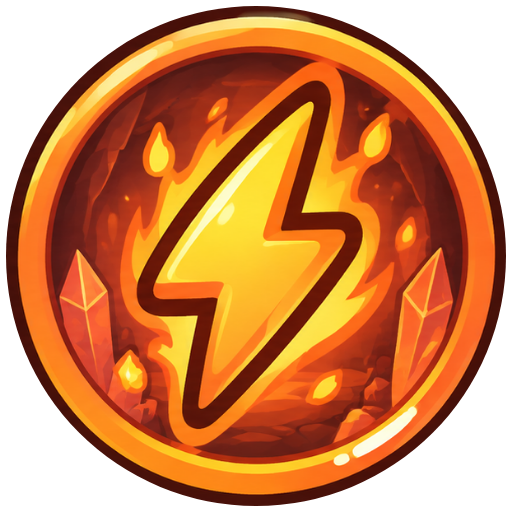
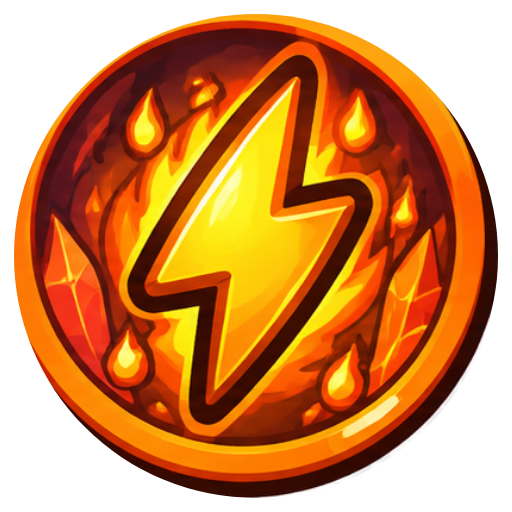
feat: icones das 5 skills (arte nova) na arena e na arvore

diff --git a/Caverna.html b/Caverna.html
@@ -172,7 +172,7 @@
 			<div id="skill-unlock-panel" class="skill-unlock-panel" hidden aria-label="Habilidades desbloqueadas">
 				<button type="button" id="skill-electric" class="combat-skill" hidden aria-label="Corrente elétrica"
 					title="Corrente elétrica">
-					<img class="combat-skill__icon" src="imagens/espada-eletrica.svg" alt="">
+					<img class="combat-skill__icon" src="imagens/skill-electric.png" alt="">
 					<span id="skill-electric-progress" class="sr-only"></span>
 					<span class="combat-skill__meter" role="progressbar" aria-label="Carga da corrente elétrica"
 						aria-valuemin="0" aria-valuemax="100" aria-valuenow="0">

diff --git a/script/ui.js b/script/ui.js
@@ -3,11 +3,11 @@
 
 // Ícones dos nós raízes da árvore de habilidades (assets já existentes no jogo)
 const ICONE_SKILL = {
-	damage: "imagens/espada-habilidade.svg",
-	electric: "imagens/efeito-eletrico.svg",
-	gold: "imagens/bau-dourado.svg",
-	escape: "imagens/cursor-espada.svg",
-	frenzy: "imagens/espada-eletrica.svg"
+	damage: "imagens/skill-damage.png",
+	electric: "imagens/skill-electric.png",
+	gold: "imagens/skill-gold.png",
+	escape: "imagens/skill-escape.png",
+	frenzy: "imagens/skill-frenzy.png"
 };
 
 const UI = {
